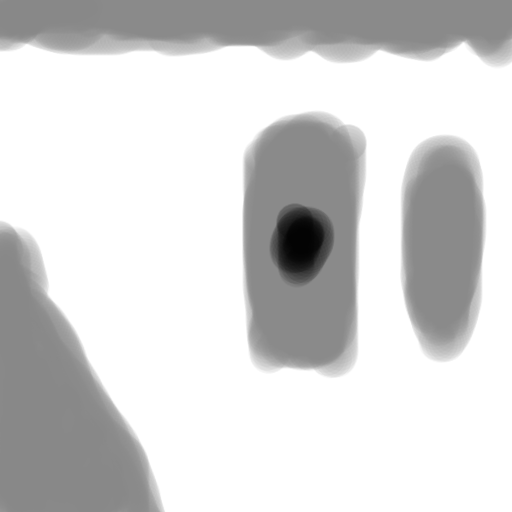
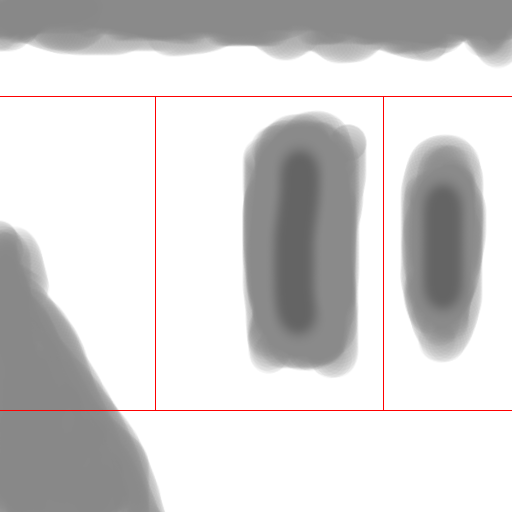
Add support of plate boundaries to image loader
[#136664195]

diff --git a/js/plates-model/img-2-plates.js b/js/plates-model/img-2-plates.js
@@ -3,10 +3,15 @@ import getImgData from '../get-img-data';
 import Plate from './plate';
 import Point from './point';
 
-const BORDER_COL = [255, 0, 0]; // red
+const BOUNDARY_H_VAL = 'b';
+const PROCESSED_H_VAL = 'p';
+// Process only 4 neighbours in DFS algorithm. If we processed all 8 (e.g. [-1, -1]),
+// it would be easier to jump over plate boundary.
+const NEIGHBOURS = [[-1, 0], [1, 0], [0, -1], [0, 1]];
 
-function isBorder(data, i) {
-  return data[i] === BORDER_COL[0] && data[i + 1] === BORDER_COL[1] && data[i + 2] === BORDER_COL[2];
+// Boundary is defined by red pixels.
+function isColorBoundary(data, i) {
+  return data[i] > 32 && data[i + 1] === 0 && data[i + 2] === 0;
 }
 
 function normalize(data, i) {
@@ -17,7 +22,7 @@ function normalize(data, i) {
   return norm * (max - min) + min;
 }
 
-// Transforms ImageData into height map. Borders are marked by null values.
+// Transforms ImageData into height map. Boundarys are marked by null values.
 function getHeightMap(imgData) {
   const width = imgData.width;
   const height = imgData.height;
@@ -29,23 +34,61 @@ function getHeightMap(imgData) {
     if (!result[x]) {
       result[x] = [];
     }
-    result[x][y] = isBorder(data, i * 4) ? null : normalize(data, i * 4);
+    result[x][y] = isColorBoundary(data, i * 4) ? BOUNDARY_H_VAL : normalize(data, i * 4);
   }
   return result;
+}
+
+function isBoundary(heightVal) {
+  return heightVal === BOUNDARY_H_VAL;
+}
+
+function isProcessed(heightVal) {
+  return heightVal === PROCESSED_H_VAL;
 }
 
 function getPlates(heightMap) {
   const width = heightMap.length;
   const height = heightMap[0].length;
-  const plate = new Plate({ x: 0, y: 0, vx: 0, vy: 0, maxX: width, maxY: height });
-  for (let x = 0; x < width; x += 1) {
-    for (let y = 0; y < height; y += 1) {
-      const point = new Point({ x, y, height: heightMap[x][y], plate, age: Infinity });
-      plate.addPoint(point);
+  const plates = [];
+  const queue = [];
+  for (let y = 0; y < height; y += 1) {
+    for (let x = 0; x < width; x += 1) {
+      const pointHeight = heightMap[x][y];
+      if (!isBoundary(pointHeight) && !isProcessed(pointHeight)) {
+        const plate = new Plate({ x: 0, y: 0, vx: 0, vy: 0, maxX: width, maxY: height });
+        plates.push(plate);
+        const point = new Point({ x, y, height: pointHeight, plate, age: Infinity });
+        plate.addPoint(point);
+        queue.push(point);
+        heightMap[x][y] = PROCESSED_H_VAL;
+        while (queue.length > 0) {
+          const p = queue.pop();
+          const x0 = p.x;
+          const y0 = p.y;
+          NEIGHBOURS.forEach(([dx, dy]) => {
+            const i = Math.max(0, Math.min(width - 1, x0 + dx));
+            const j = Math.max(0, Math.min(height - 1, y0 + dy));
+            const h = heightMap[i][j];
+            if (!isProcessed(h)) {
+              // If point is a boundary, use height of its neighbour.
+              const nHeight = isBoundary(h) ? p.height : h;
+              const neighbour = new Point({ x: i, y: j, height: nHeight, plate, age: Infinity });
+              plate.addPoint(neighbour);
+              if (!isBoundary(h)) {
+                queue.push(neighbour);
+              }
+              // Mark point processed.
+              heightMap[i][j] = PROCESSED_H_VAL;
+            }
+          });
+        }
+      }
     }
   }
-  return [plate];
+  return plates;
 }
+
 
 export default function img2plates(imgSrc, callback) {
   getImgData(imgSrc, (imgData) => {

diff --git a/js/plates-model/presets/images.js b/js/plates-model/presets/images.js
@@ -3,10 +3,14 @@ import test1src from '../../../data/test1.png';
 
 export function test1(callback) {
   img2plates(test1src, (plates) => {
+    plates[1].vx = -1;
+    plates[2].vx = 1;
+    plates[3].vx = -1.3;
     callback(plates);
   });
 }
 
 export function test2() {
-  // TODO
+  // Keep this placeholder so ESLint doesn't complain about default export.
+  // Once we add a second function, the problem will be solved...
 }

diff --git a/js/components/plates-model.js b/js/components/plates-model.js
@@ -20,7 +20,7 @@ export default class PlatesModel extends PureComponent {
       hotSpotsRendering: false,
       platesRendering: false,
       plateBoundariesRendering: true,
-      simEnabled: false,
+      simEnabled: true,
     };
     this.rafCallback = this.rafCallback.bind(this);
     this.step = this.step.bind(this);
